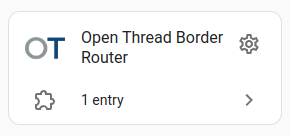
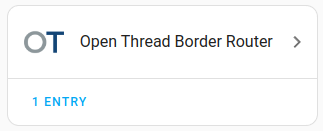
Remove references to cogwheel (#67)

diff --git a/src/about-multiprotocol.html b/src/about-multiprotocol.html
@@ -66,9 +66,9 @@ guideName: About multiprotocol issues
     <ul>
         <li><b>Option 1</b>: Make sure Zigbee and Thread are on the same channel.
           <ol>
-            <li>On the Thread integration, select the cogwheel. Then, select <b>Configure</b>. On the <b>home-assistant</b> network, select the info button.</li>
+            <li>Select the Thread integration. Then, select <b>Configure</b>. On the <b>home-assistant</b> network, select the info button.</li>
             <li>Take note of the number listed under <b>Channel</b>  <img src="/images/thread-show-channel.png"/></li>
-            <li>On the Zigbee integration, select the cogwheel. Then, select <b>Configure</b>.</li>
+            <li>Select the Zigbee integration. Then, select <b>Configure</b>.</li>
             <li>If the <b>Channel</b> number is not same as for Thread, change the channel. <img src="/images/zigbee-edit-channel.png"/></li>
           </ol>
         </li>
